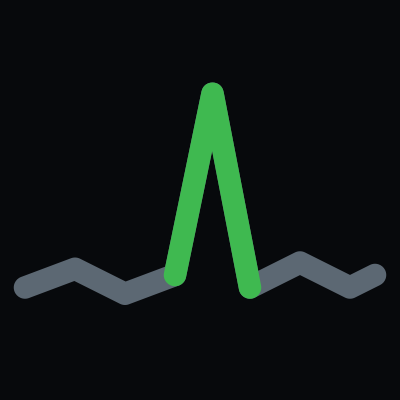
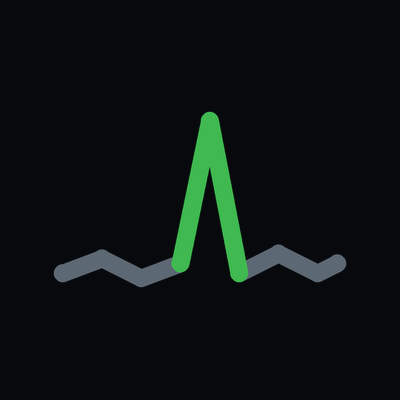
fix(profile): give the mark a real alpha channel and a tight crop
The previewer used to rasterise the SVG baked an opaque white background
in, so the "transparent" PNG was a white box on dark theme, and the
square canvas left ~40% vertical padding that read as dead space above
the title. Both PNGs are now generated from the same geometry as
mark.svg by render_mark.py, cropped to the drawn bounds.

Changed region(s): [[0.03, 0.21, 0.96, 0.78]]

diff --git a/profile/assets/render_mark.py b/profile/assets/render_mark.py
@@ -1,0 +1,63 @@
+"""Render the flaketrace mark to PNG with real alpha.
+
+qlmanage bakes an opaque white background into its SVG previews, which reads as
+"transparent" on GitHub's light theme and as a white box on dark. Drawing the
+geometry directly is the only way to get a genuine alpha channel here, and it
+keeps the PNG byte-identical in intent to profile/assets/mark.svg.
+
+Geometry is in the same 64-unit space as the SVG:
+  slate polyline  (4,46) (12,43) (20,47) (28,44) (34,15) (40,46) (48,42) (56,46) (60,44)
+  green overdraw  (28,44) (34,15) (40,46)
+  stroke 3.6, round caps and joins
+"""
+
+import sys
+from PIL import Image, ImageDraw
+
+SLATE = (92, 104, 115, 255)  # #5c6873
+GREEN = (63, 185, 80, 255)  # #3fb950
+
+BASE = [(4, 46), (12, 43), (20, 47), (28, 44), (34, 15), (40, 46), (48, 42), (56, 46), (60, 44)]
+SPIKE = [(28, 44), (34, 15), (40, 46)]
+STROKE = 3.6
+
+SS = 12  # supersample factor; downscaled with LANCZOS for antialiasing
+
+
+def draw_polyline(d, pts, colour, width):
+    """Thick polyline with round caps and joins — PIL has no stroke-linejoin."""
+    w = width * SS
+    scaled = [(x * SS, y * SS) for x, y in pts]
+    d.line(scaled, fill=colour, width=int(round(w)))
+    r = w / 2.0
+    for x, y in scaled:  # discs at every vertex give the round join/cap
+        d.ellipse((x - r, y - r, x + r, y + r), fill=colour)
+
+
+def main(out_path, target_width):
+    size = 64 * SS
+    im = Image.new("RGBA", (size, size), (0, 0, 0, 0))
+    d = ImageDraw.Draw(im)
+    draw_polyline(d, BASE, SLATE, STROKE)
+    draw_polyline(d, SPIKE, GREEN, STROKE)
+
+    bbox = im.getbbox()
+    if bbox is None:
+        raise SystemExit("nothing drawn")
+    pad = int(2 * SS)
+    l, t, r, b = bbox
+    im = im.crop(
+        (max(0, l - pad), max(0, t - pad), min(im.width, r + pad), min(im.height, b + pad))
+    )
+
+    h = round(target_width * im.height / im.width)
+    im = im.resize((target_width, h), Image.LANCZOS)
+    im.save(out_path)
+    print(f"{out_path}  {im.width}x{im.height}  aspect {im.width / im.height:.2f}")
+
+    corner = im.getpixel((0, 0))
+    print("corner pixel (must be alpha 0):", corner)
+
+
+if __name__ == "__main__":
+    main(sys.argv[1], int(sys.argv[2]))

diff --git a/README.md b/README.md
@@ -4,8 +4,10 @@ Organisation-wide defaults for [@flaketrace](https://github.com/flaketrace).
 
 - [`profile/README.md`](profile/README.md) — the org profile page rendered at
   [github.com/flaketrace](https://github.com/flaketrace).
-- [`profile/assets/`](profile/assets) — the mark, in SVG and PNG. `avatar.svg` / `avatar-400.png`
-  is the org avatar; `mark.svg` / `mark-256.png` is the transparent variant for documents.
+- [`profile/assets/`](profile/assets) — the mark. `mark.svg` is the source; `mark.png` is the
+  tightly-cropped transparent raster used in documents, and `avatar-400.png` (mark on `#07090c`)
+  is the org avatar. The PNGs are generated, not hand-drawn — regenerate them from `mark.svg`
+  rather than editing them.
 - `CODE_OF_CONDUCT.md`, `CONTRIBUTING.md`, `SECURITY.md`, `SUPPORT.md`, and
   `.github/ISSUE_TEMPLATE/config.yml` — inherited by every repository in the org that does not
   ship its own copy. A repo-local file always wins.

diff --git a/profile/README.md b/profile/README.md
@@ -1,5 +1,5 @@
 <p align="center">
-  <img src="assets/mark-256.png" width="168" alt="">
+  <img src="assets/mark.png" width="200" alt="">
 </p>
 
 <h1 align="center">flaketrace</h1>